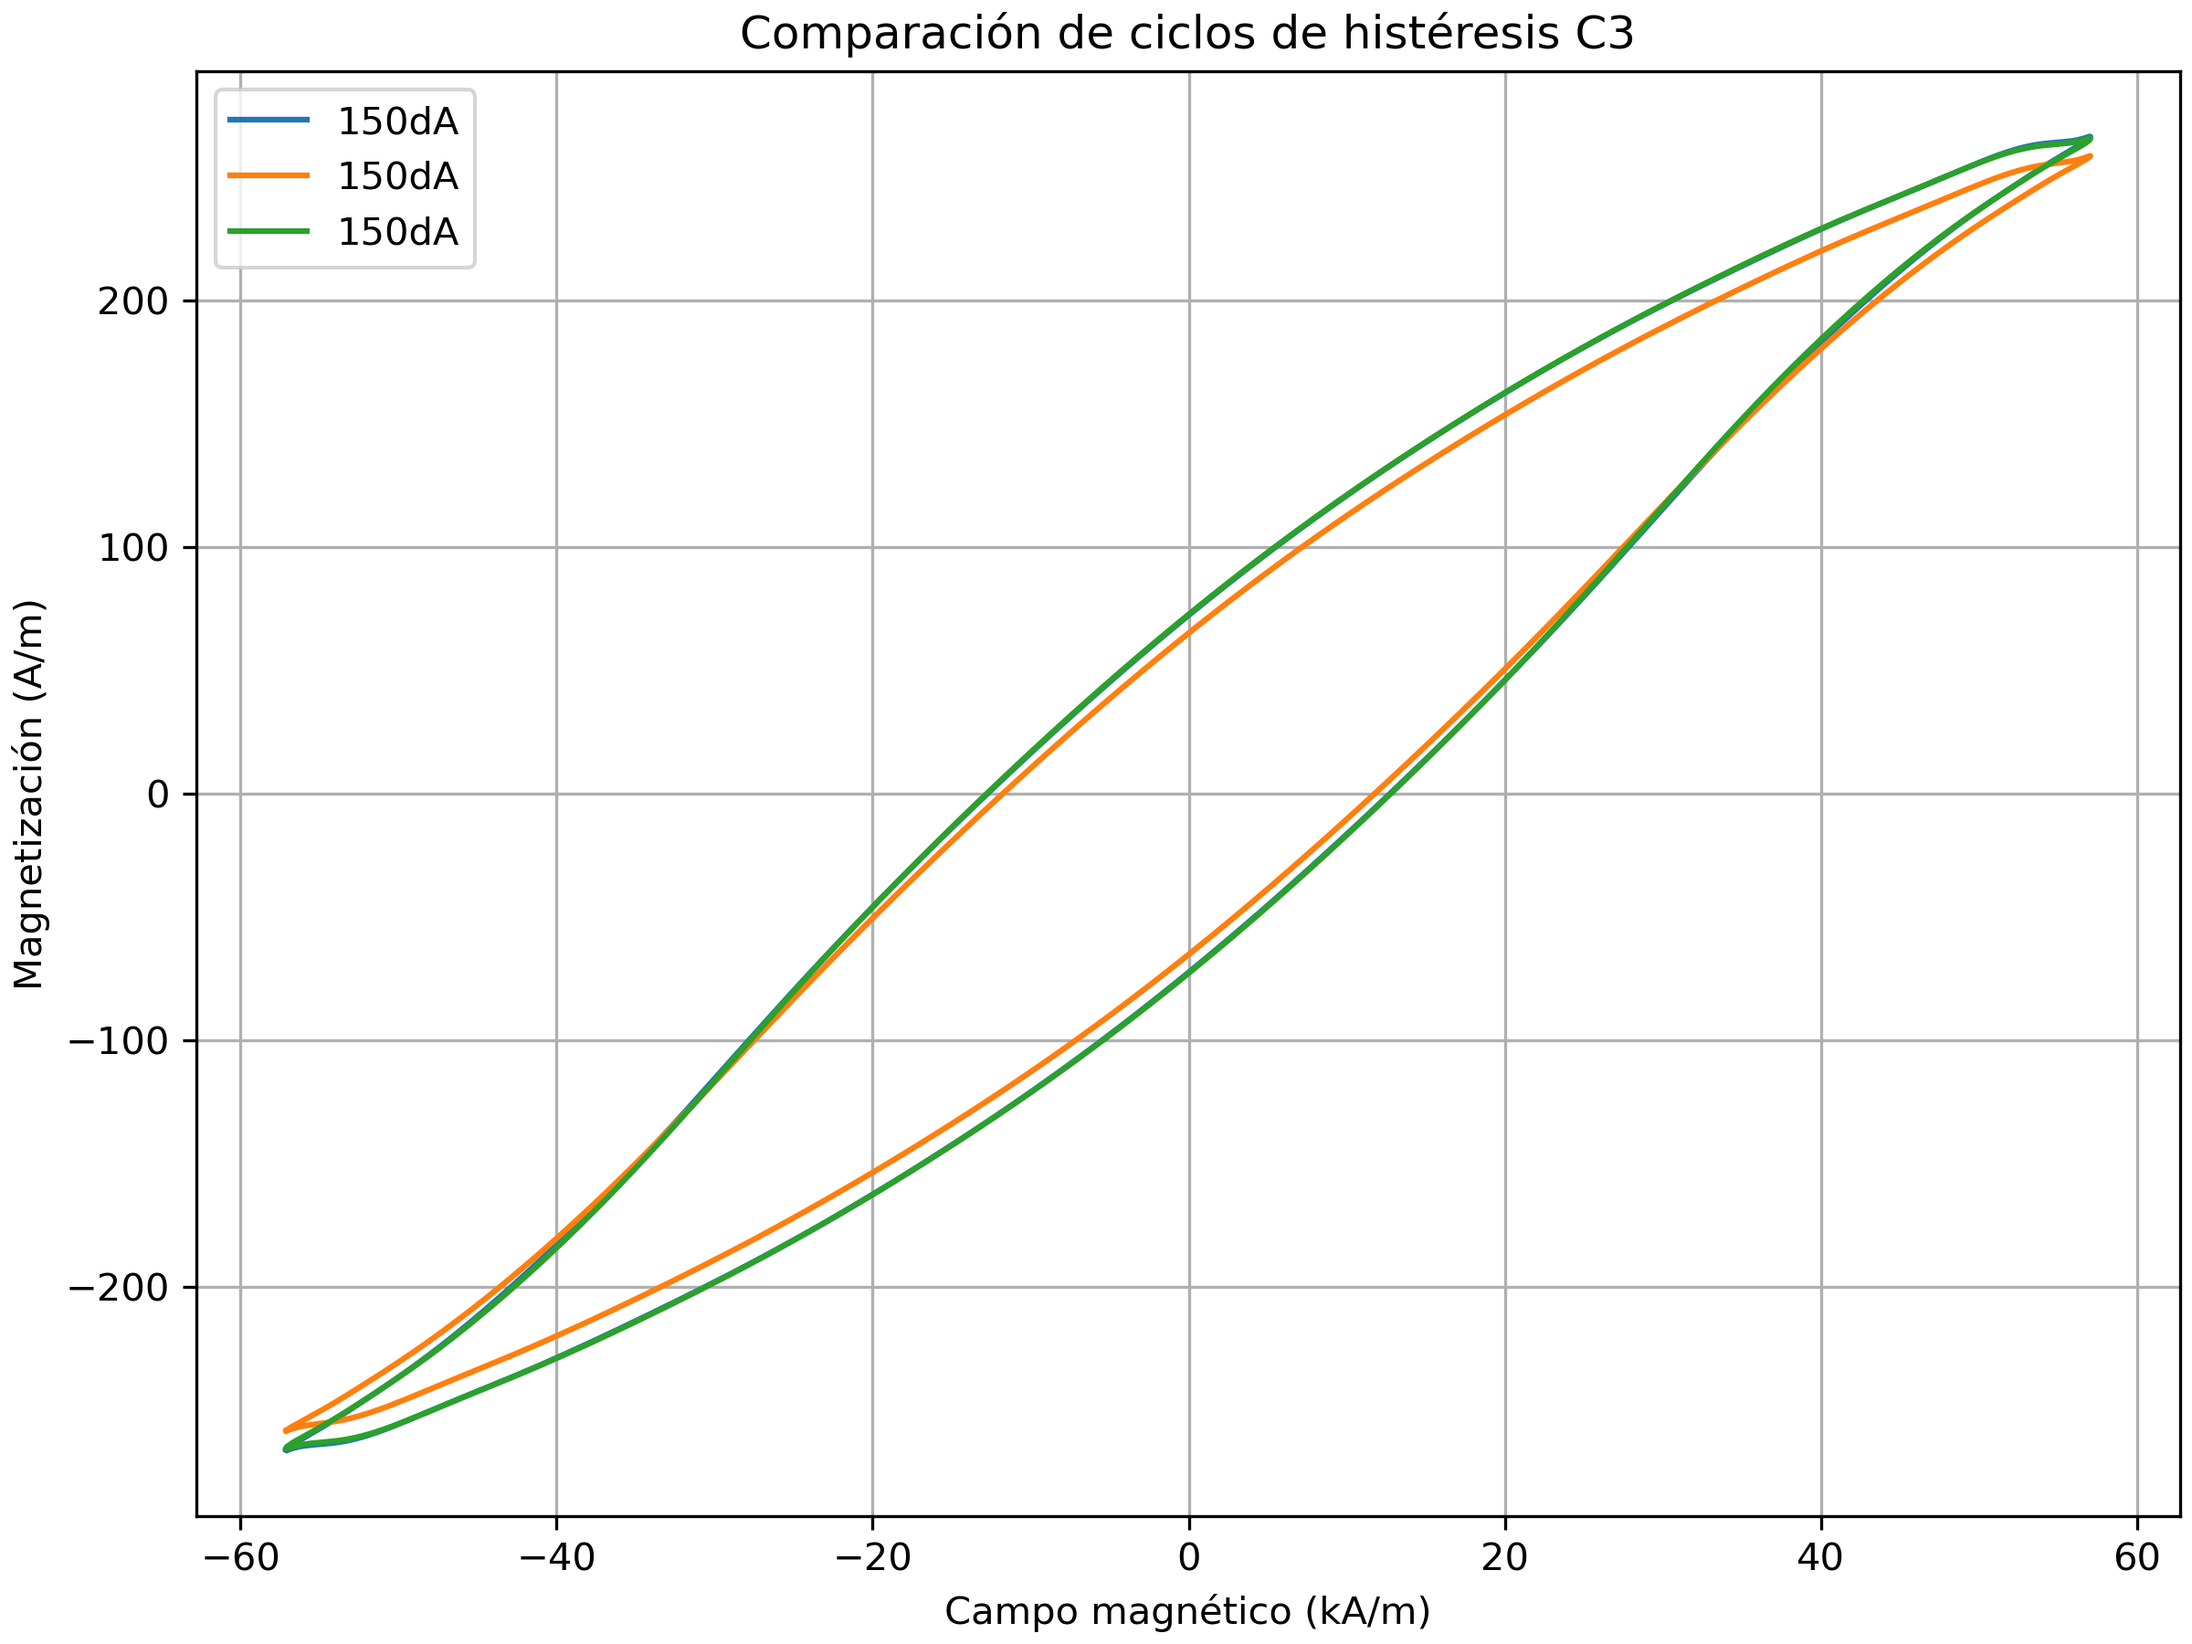
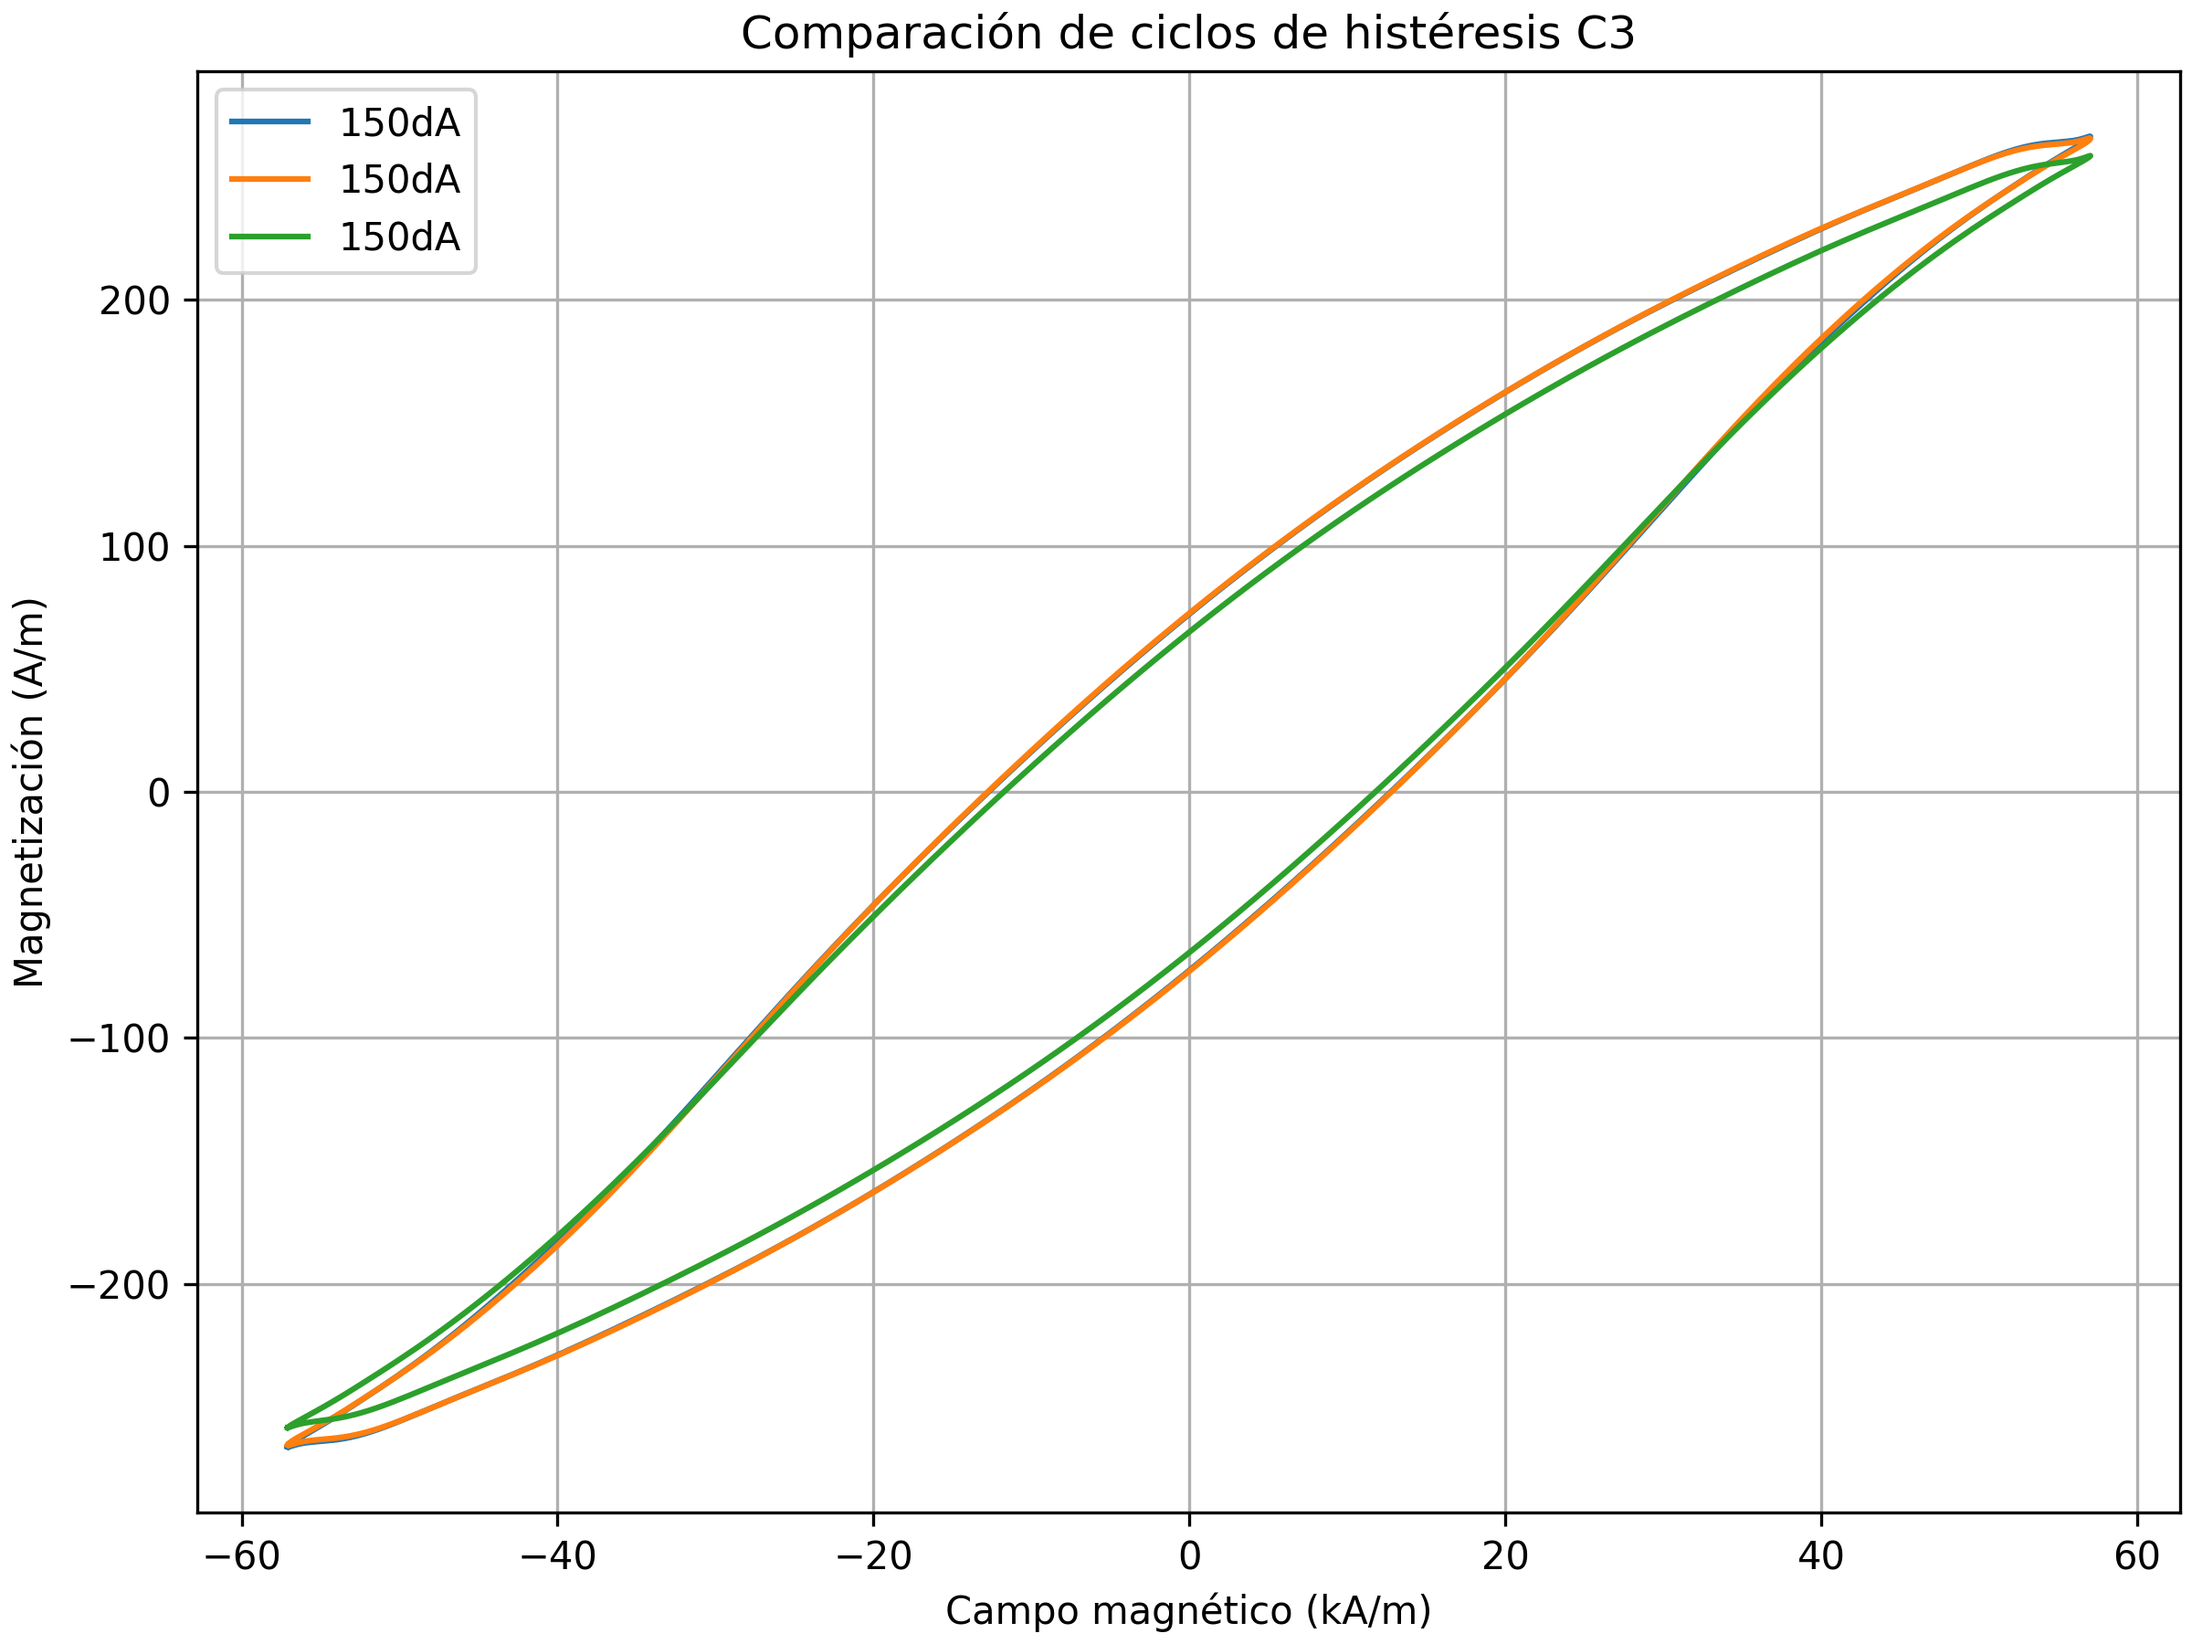
Comparativas de ciclos RF listas Faltan plotear parametros tau/SAR/Hc

diff --git a/comparativa.py b/comparativa.py
@@ -216,35 +216,64 @@ plot_ciclos_promedio('F1')
 plot_ciclos_promedio('F2')
 plot_ciclos_promedio('F3')
 plot_ciclos_promedio('F4')
-
 #%%
-fig, (a, b) = plt.subplots(1, 2, figsize=(14, 5), sharex=True, sharey=True, constrained_layout=True)
+f1-1- 123146
+f2 -3 - 124049
+f3 - 1 - 124517
+f4 - 1 - 125106
+#%%
+#%% selecciono 
+C1-2 -115711
+c2-1 -120233
+c3-2 -121118
+c4-2 121712 
+#%%
 
-# Izquierda: muestras C
+# Patrón que busca en todas las subcarpetas de C1, filtra por "ciclo_promedio" y luego por "115711" en la ruta
+ciclo_C1 = glob('C1/**/*115711/**/*ciclo_promedio*', recursive=True)
+ciclo_C2 = glob('C2/**/*120233/**/*ciclo_promedio*', recursive=True)
+ciclo_C3 = glob('C3/**/*121118/**/*ciclo_promedio*', recursive=True)
+ciclo_C4 = glob('C4/**/*121712/**/*ciclo_promedio*', recursive=True)
+ciclo_F1 = glob('F1/**/*123146/**/*ciclo_promedio*', recursive=True)
+ciclo_F2 = glob('F2/**/*124049/**/*ciclo_promedio*', recursive=True)
+ciclo_F3 = glob('F3/**/*124517/**/*ciclo_promedio*', recursive=True)
+ciclo_F4 = glob('F4/**/*125106/**/*ciclo_promedio*', recursive=True)
 
-for idx, label in enumerate(labels_C):
-_,_,_,H_C1,M_C1,_ = lector_ciclos(ciclos_C1[0])
-    a.plot(H, m_norm, '.', label=nombre )
-    a.plot(H_fit_arrays[nombre], m_fit_arrays[nombre], '-', label=nombre+' Fitting')
+# Leer y graficar los ciclos seleccionados para muestras C y F
 
-a.set_ylabel('m (emu/g)')
-a.legend(ncol=2)
+fig, (a, b) = plt.subplots(2, 1, figsize=(8, 9), sharex=True, sharey=True, constrained_layout=True)
+
+# Muestras C
+ciclos_C = [ciclo_C1, ciclo_C2, ciclo_C3, ciclo_C4]
+labels_C_plot = ['C1', 'C2', 'C3', 'C4']
+
+for idx, (ciclo, label) in enumerate(zip(ciclos_C, labels_C_plot)):
+    if ciclo:  # Verifica que la lista no esté vacía
+        t, H_Vs, M_Vs, H_kAm, M_Am, metadata = lector_ciclos(ciclo[0])
+        a.plot(H_kAm, M_Am, '.-', label=label)
+
+a.set_ylabel('Magnetización (A/m)')
+a.legend(ncol=1, loc='lower right')
 a.grid()
-a.set_title('Muestras C')
-a.set_xlabel('H (G)')
+a.set_title('Muestras C - 300 kHz - 57 kA/m')
+a.set_xlabel('Campo (A/m)')
 
-# Derecha: muestras F
-for idx, (nombre, H, m_norm) in enumerate(muestras_F):
-    b.plot(H, m_norm, '.', label=nombre )
-    b.plot(H_fit_arrays[nombre], m_fit_arrays[nombre], '-', label=nombre+' Fitting')
+# Muestras F
+ciclos_F = [ciclo_F1, ciclo_F2, ciclo_F3, ciclo_F4]
+labels_F_plot = ['F1', 'F2', 'F3', 'F4']
 
-b.set_ylabel('m (emu/g)')
-b.set_xlabel('H (G)')
-b.legend(ncol=2)
+for idx, (ciclo, label) in enumerate(zip(ciclos_F, labels_F_plot)):
+    if ciclo:
+        t, H_Vs, M_Vs, H_kAm, M_Am, metadata = lector_ciclos(ciclo[0])
+        b.plot(H_kAm, M_Am, '.-', label=label)
+
+b.set_ylabel('Magnetización (A/m)')
+b.set_xlabel('Campo (A/m)')
+b.legend(ncol=1, loc='lower right')
 b.grid()
-b.set_title('Muestras F')
+b.set_title('Muestras F - 300 kHz - 57 kA/m')
 
-plt.savefig('VSM_fits_C_F.png', dpi=300)
+#plt.savefig('comparativa_ciclos_C_F.png', dpi=300)
 plt.show()
 
 
